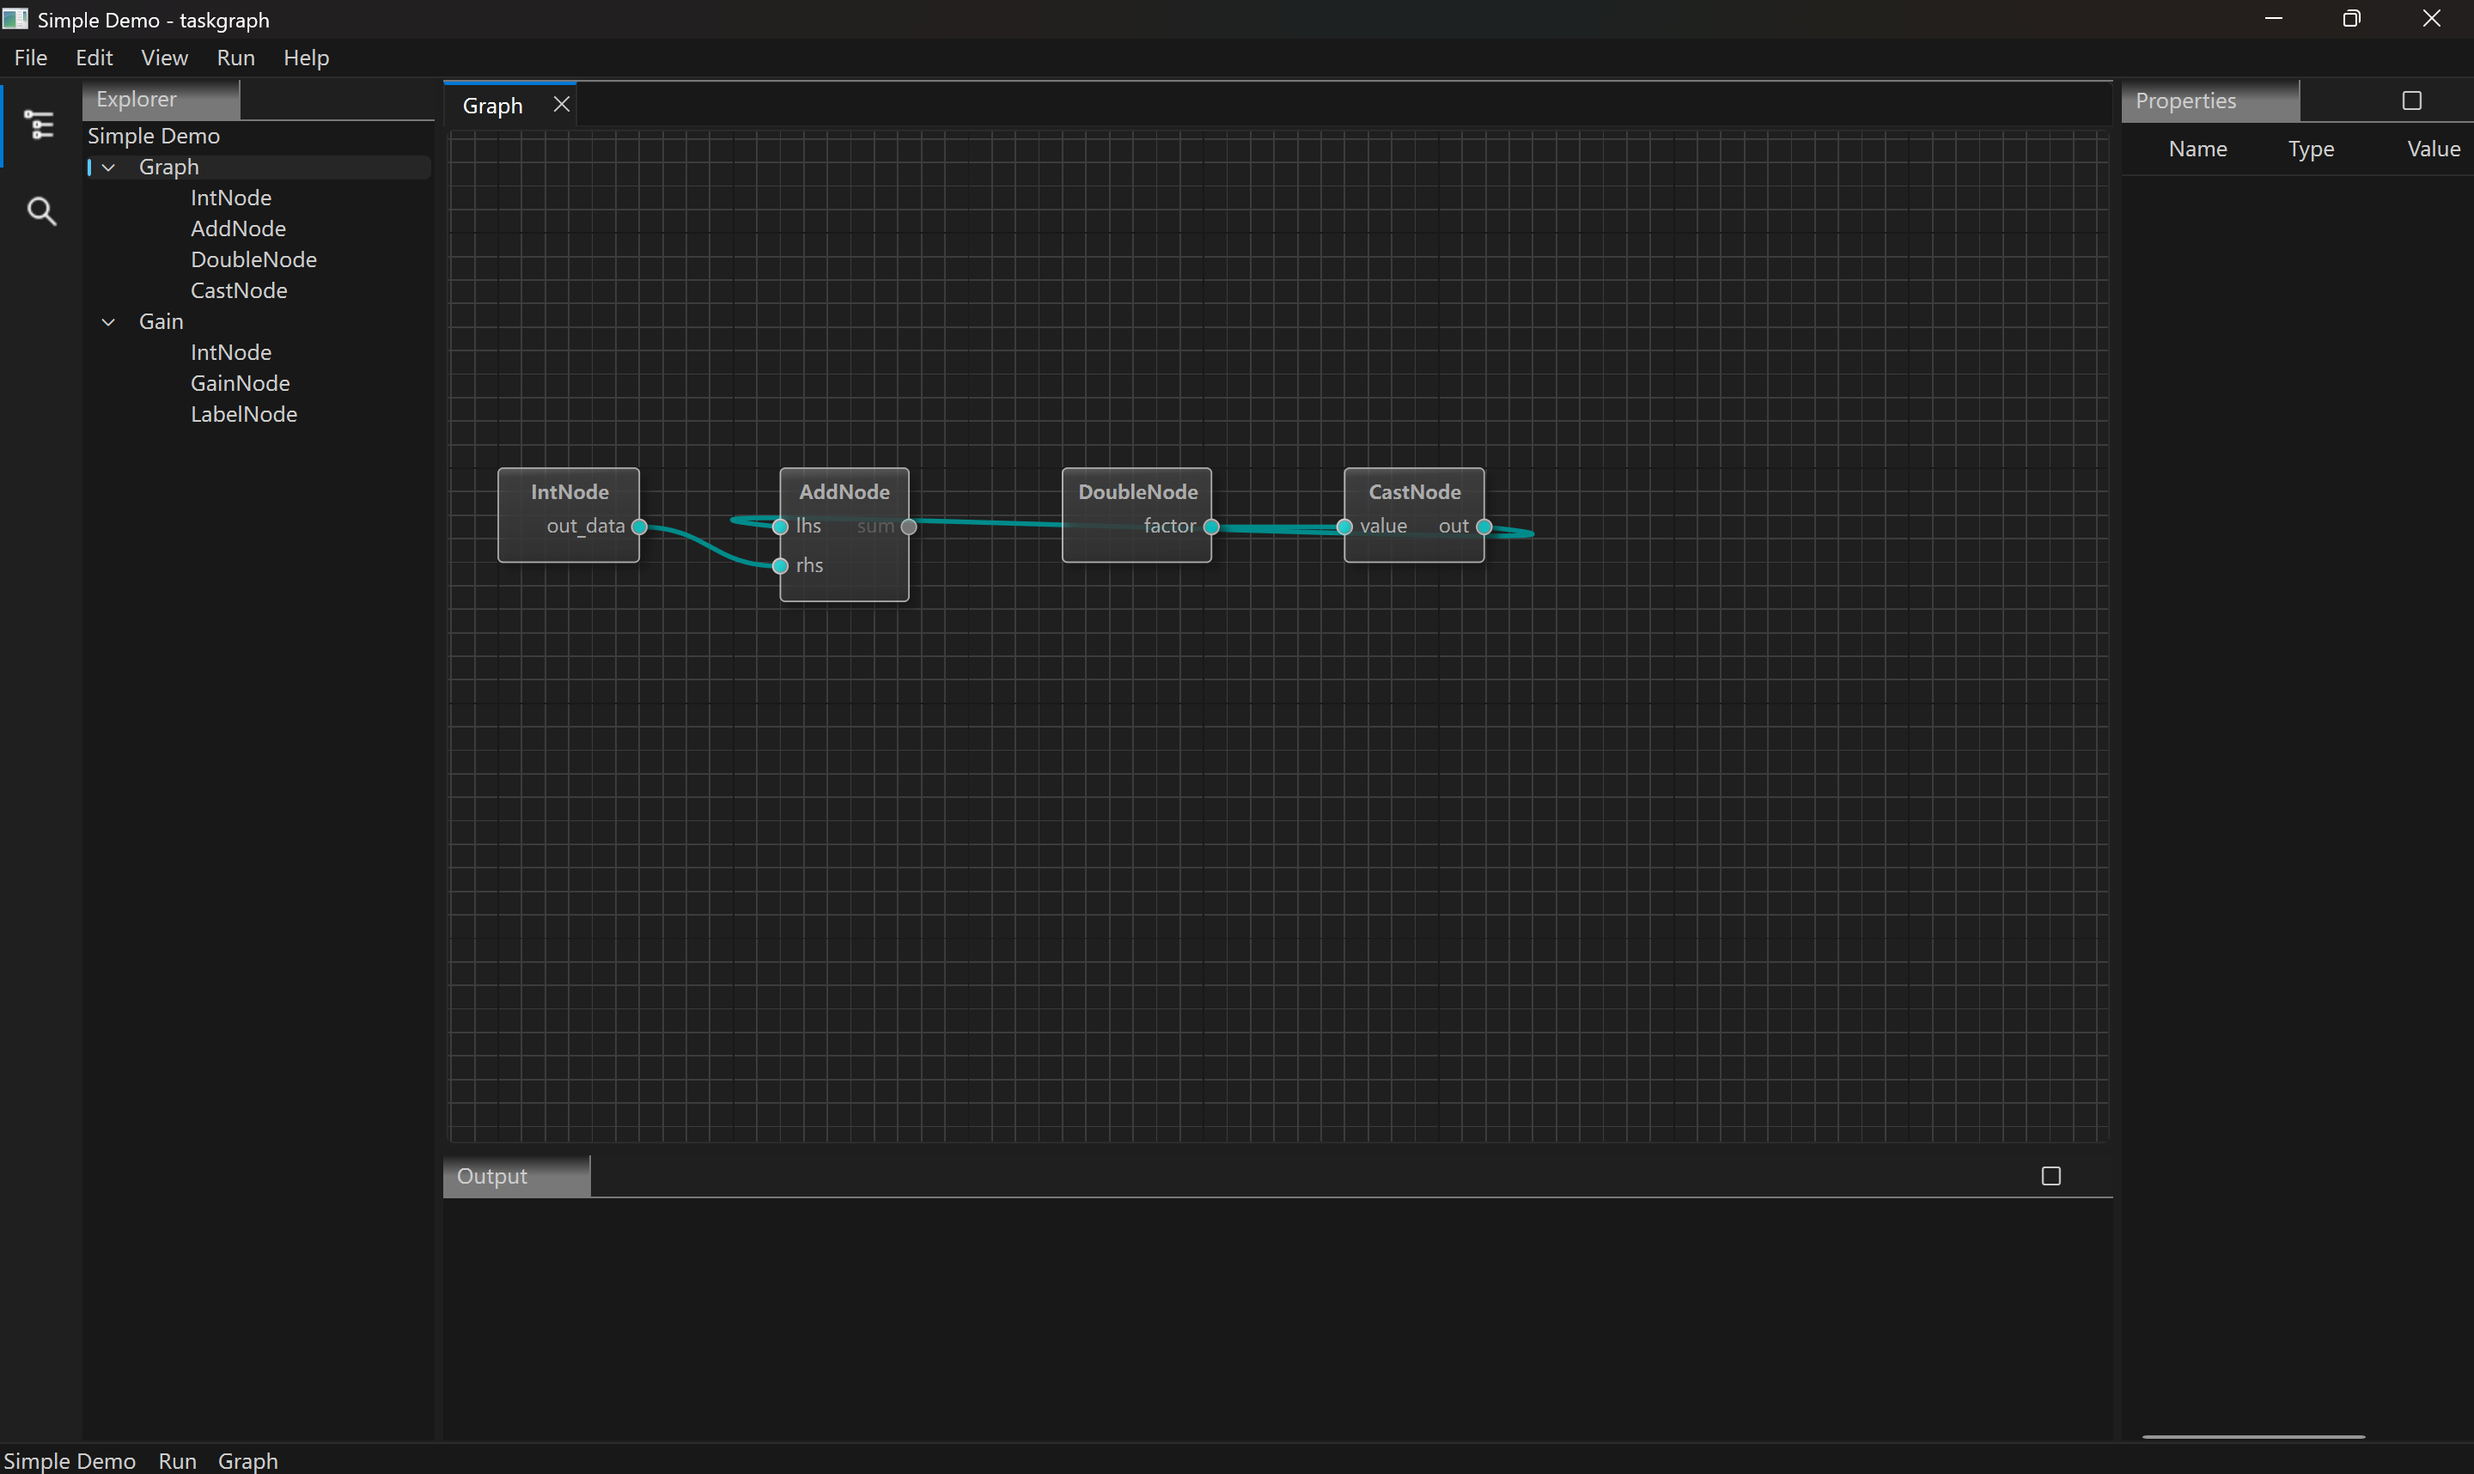
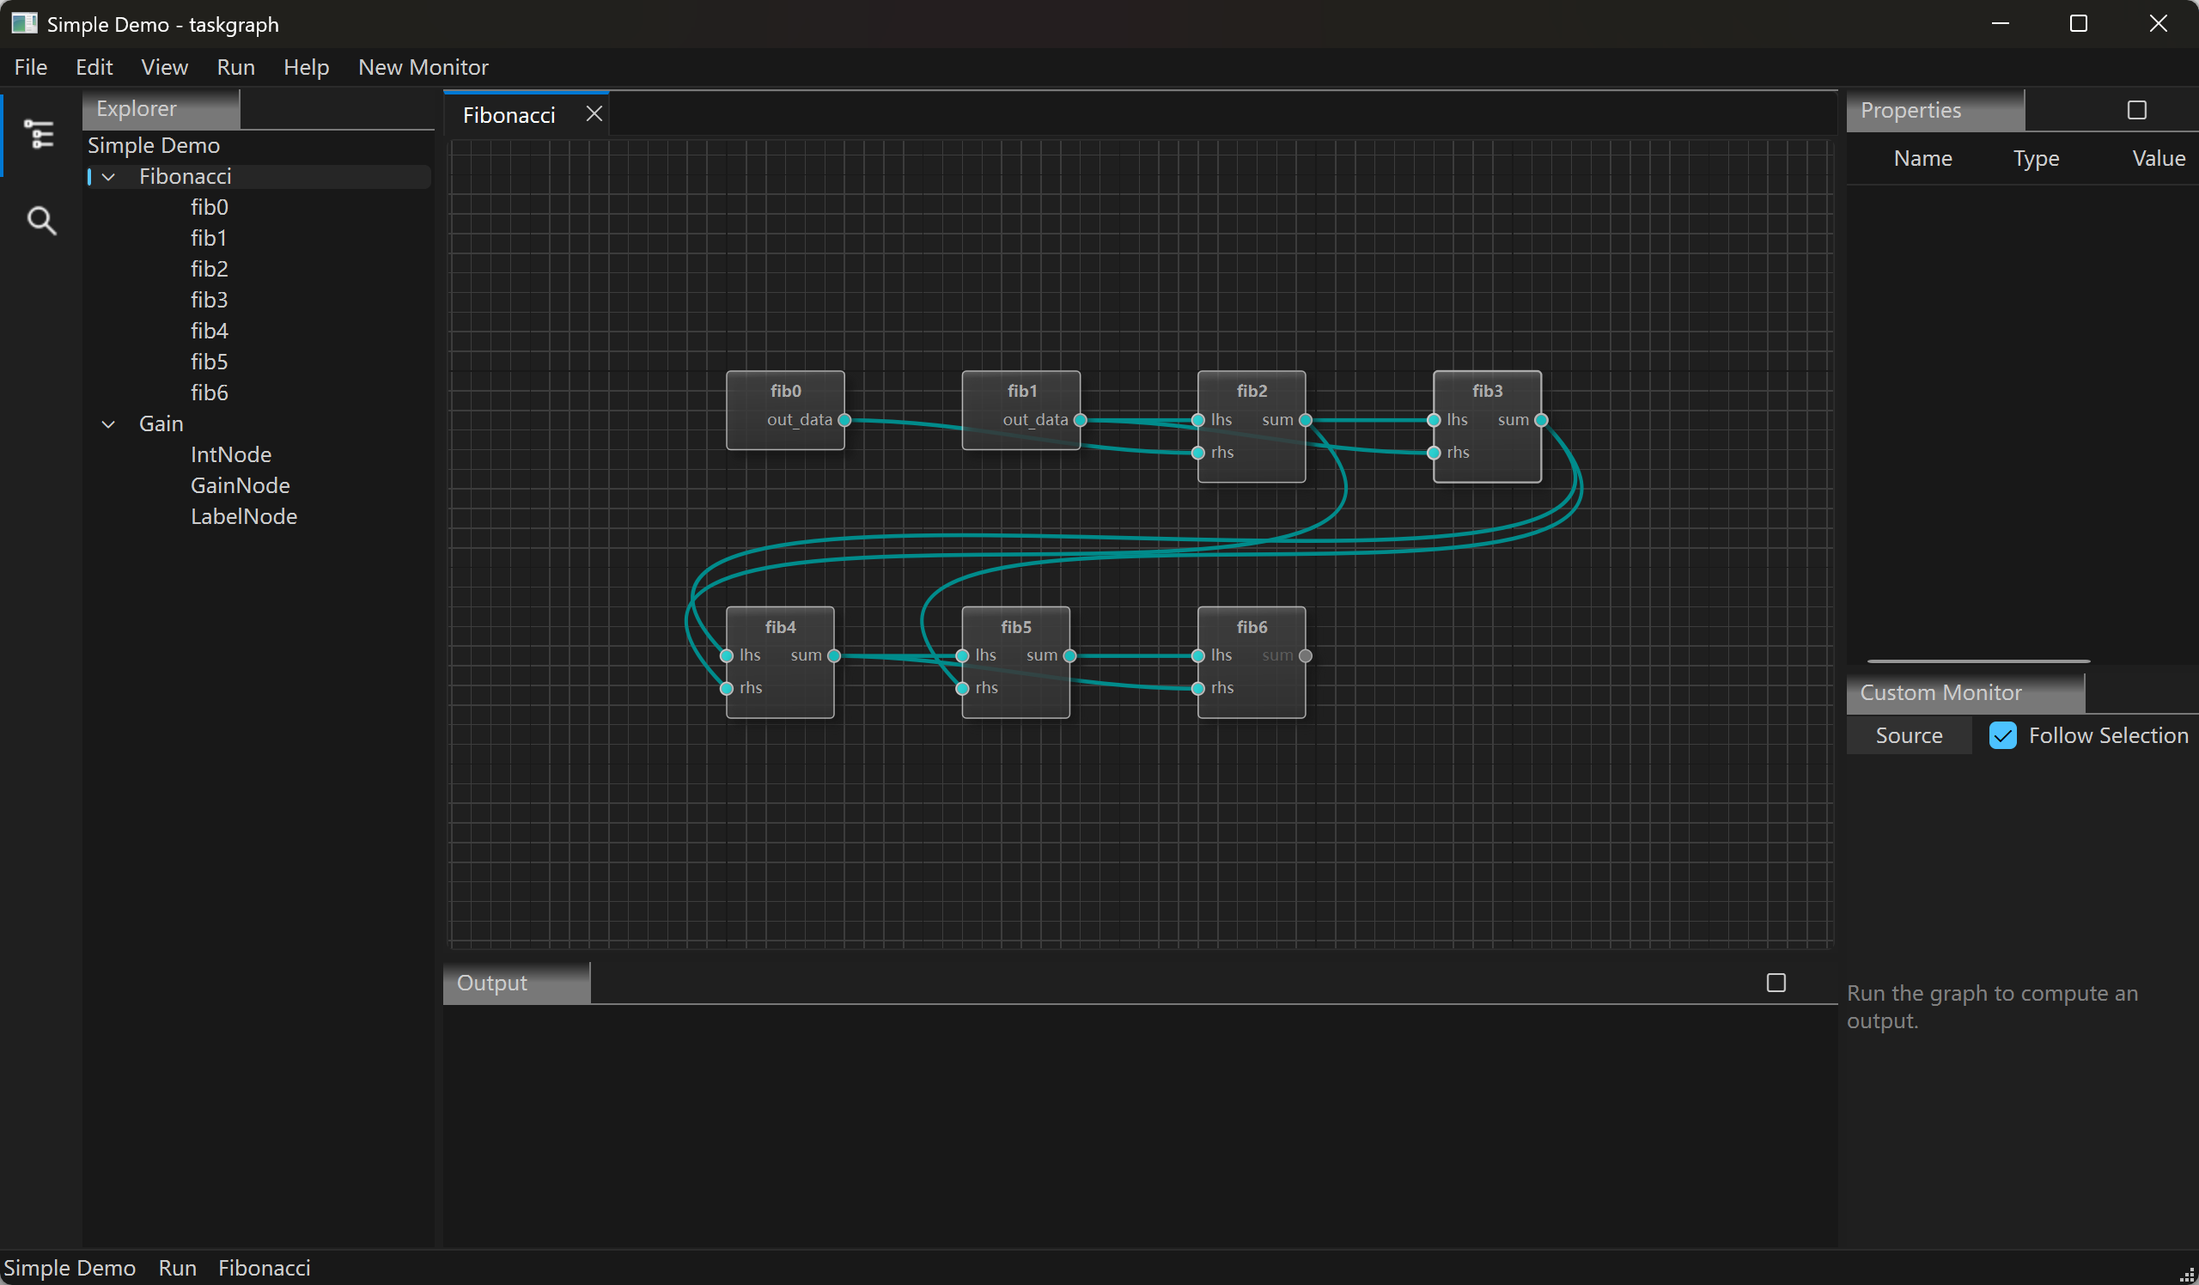
docs: show the current workbench in the README demos
Replace the ImGui still with a short Fibonacci run and refresh the Qt screenshot so the README matches the workbench.

diff --git a/README.md b/README.md
@@ -142,7 +142,7 @@ int main() {
 
 Same `tg::Controller`: register kinds and open a project on **core**, then wrap with `Ui` and `Run()` for the workbench. Two backends share the same core and models; the interaction details for both are in [`docs/ui.md`](docs/ui.md). Run in the workbench only starts the current graph and returns to the event loop. `tryRun` still waits until that graph finishes. A graph that is still running cannot be edited; other graphs can run at the same time. The next paint shows a node's output in Monitor once that node's task returns.
 
-![simple-ui example (ImGui build)](docs/images/simple-ui.png)
+![simple-ui example (ImGui build)](docs/images/simple-ui.gif)
 
 ### ImGui build
 

diff --git a/README_zh.md b/README_zh.md
@@ -142,7 +142,7 @@ int main() {
 
 仍用同一个 `tg::Controller`：在 **core** 上登记种类并打开工程，再套上 `Ui` 调用 `Run()`，得到工作台。两个后端共用同一份 core 和模型；两边的交互细节都在 [`docs/ui.md`](docs/ui.md)。工作台里的 Run 只启动当前图并立刻回到事件循环。`tryRun` 仍会等到这张图结束。一张图还在跑时不能改它；其它图可以同时跑。节点一算完，下一次绘制就能在 Monitor 里看到它的输出。
 
-![simple-ui 示例界面（imgui 版）](docs/images/simple-ui.png)
+![simple-ui 示例界面（imgui 版）](docs/images/simple-ui.gif)
 
 ### ImGui 版
 
